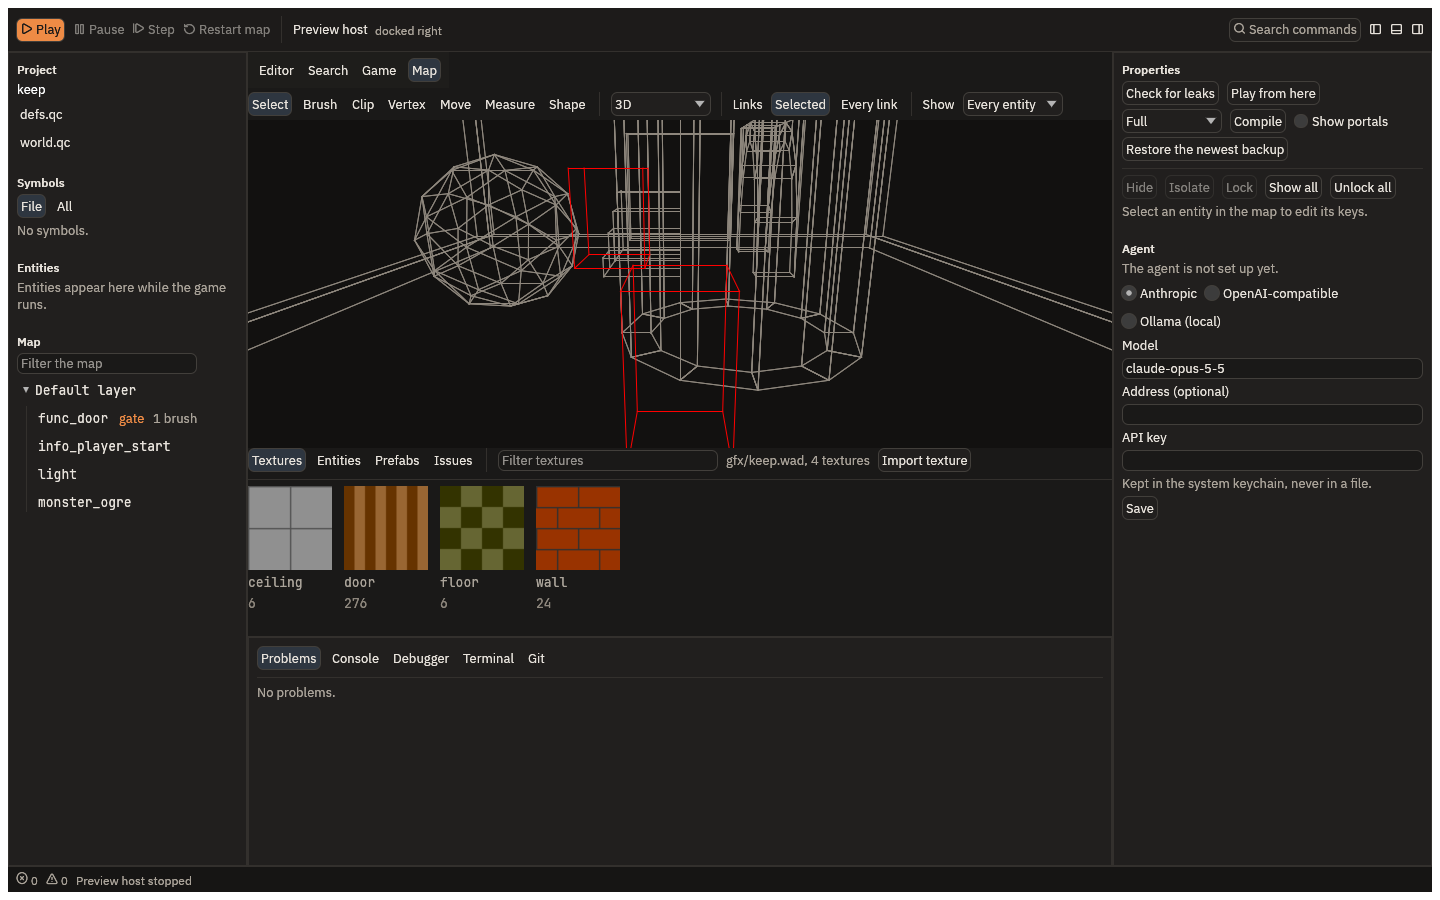
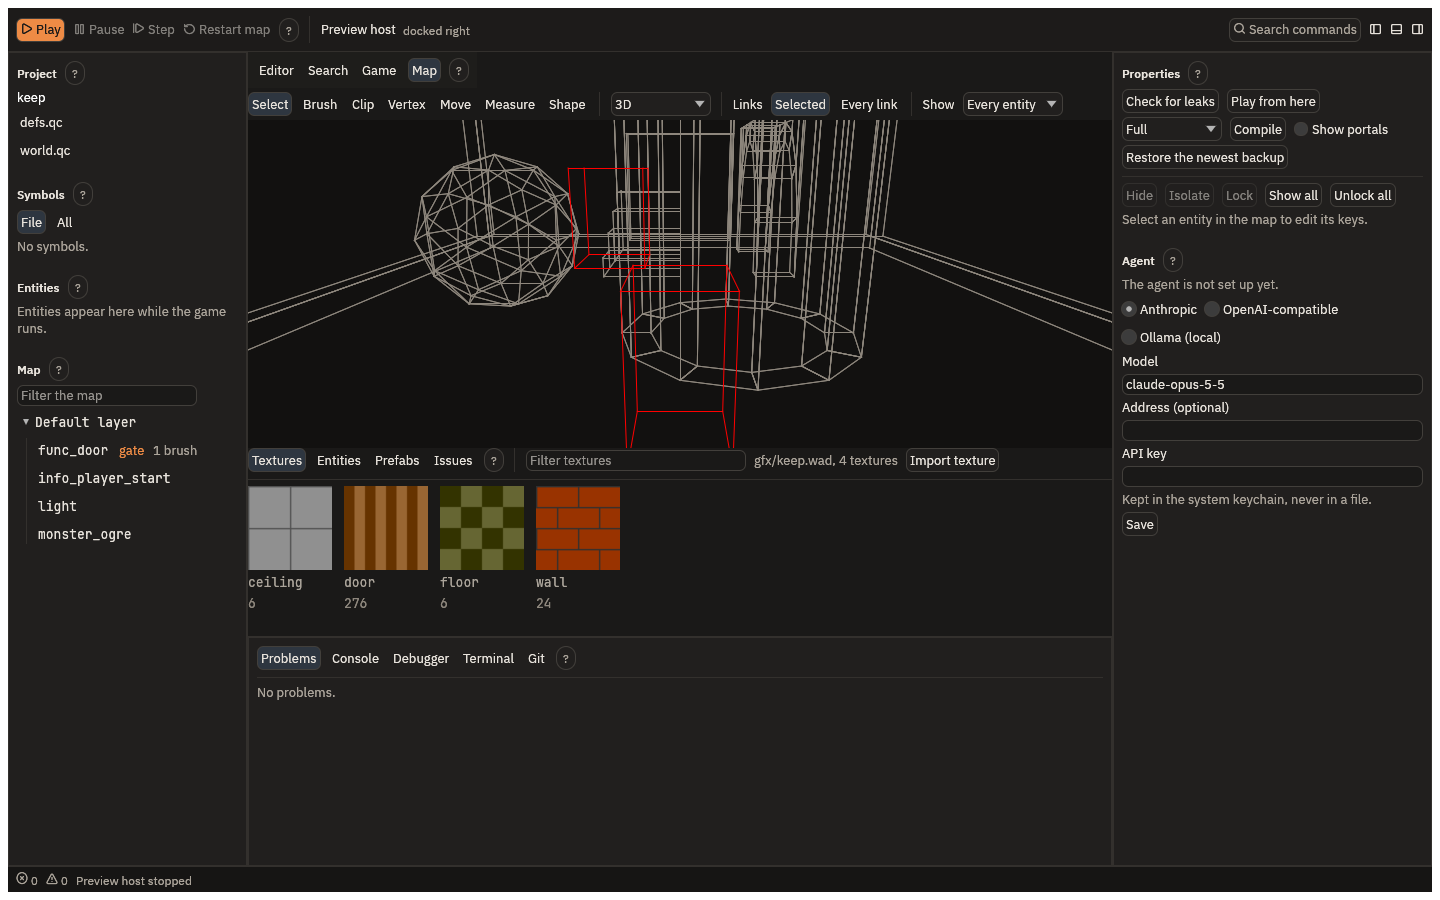
Add the search and terminal sections and refresh the screenshots

diff --git a/public/docs/opening-a-mod.html b/public/docs/opening-a-mod.html
@@ -159,6 +159,10 @@ command = &quot;project.build&quot;
 key_mode = &quot;vim&quot;
 </code></pre>
 <p>The editor starts in Normal mode, with Vim's motions, operators, counts, registers and <code>.</code>.</p>
+<h2 id="searching-the-project">Searching the project</h2>
+<p><strong>Cmd+Shift+F</strong> opens the <strong>Search</strong> tab in the centre. Type a text to find every match in the project's files, unsaved edits included; match case, whole words or a regular expression. Each result is shown in its file with a line above and below, and can be edited in place. <strong>Replace all</strong> replaces every match, each file saved and undone on its own, and <strong>Open</strong> goes to the file at that place.</p>
+<h2 id="the-terminal">The terminal</h2>
+<p>The bottom panel's <strong>Terminal</strong> tab runs your shell in the project's folder. <strong>New terminal</strong> opens another, each in a tab of its own with its title and whether its process is still running. Type a line in the box under the output to send it to the shell.</p>
 <h2 id="git">Git</h2>
 <p>When the mod's folder is a git repository, the bottom panel's Git tab lists what changed since
 the last commit. Stage a whole file, or one hunk of it, write a message and press Commit. The
